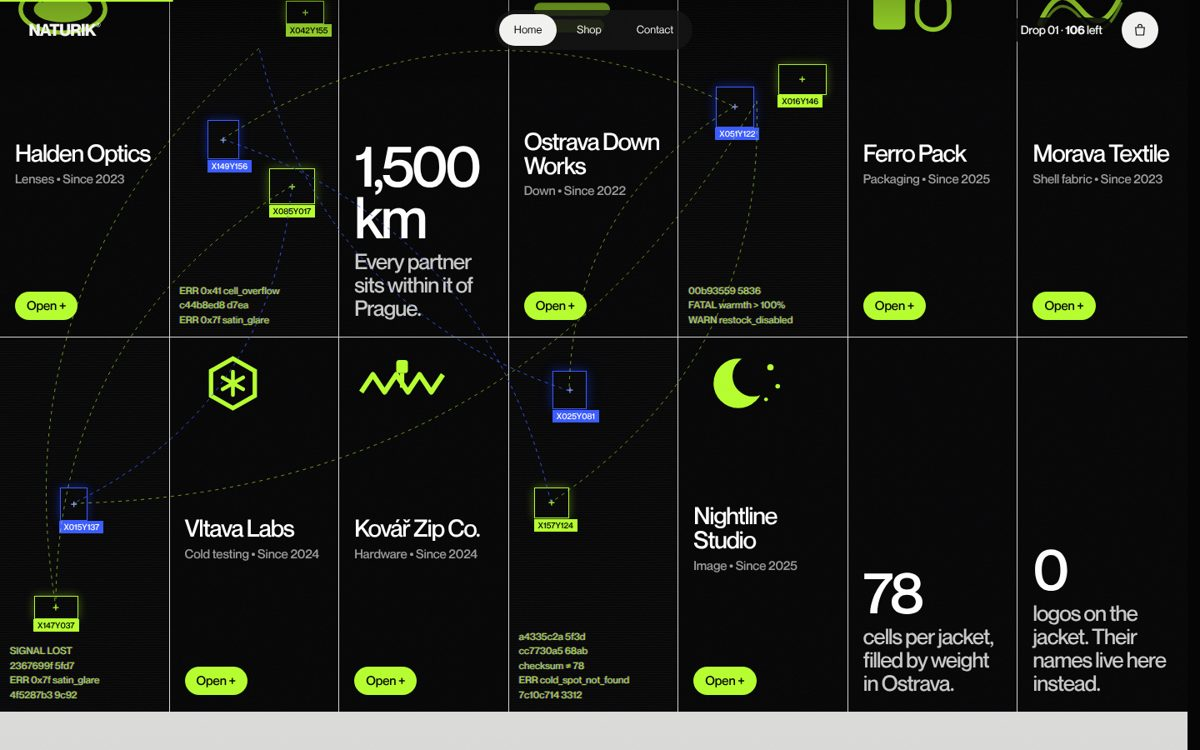
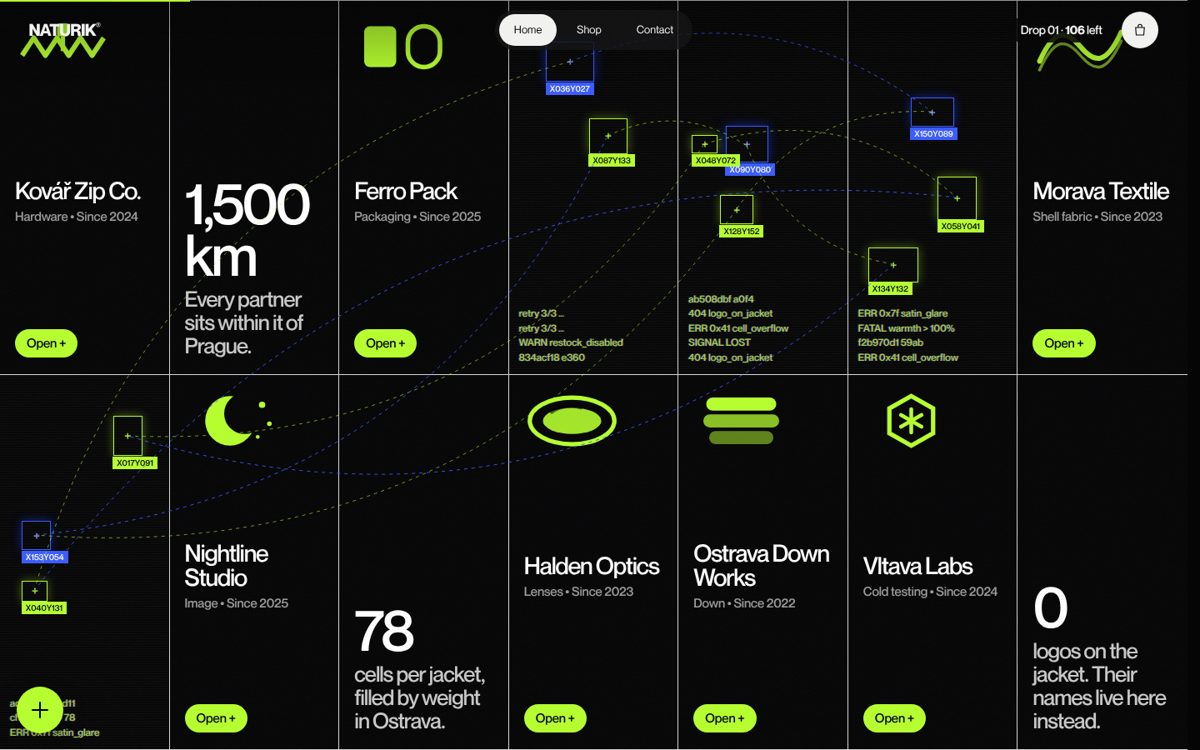
README: new screenshots for partners intro, live count, first-visit popup and social menu
Claude-Session: https://claude.ai/code/session_01Tmbk2dd4R9AbAKMPzQgXd1

diff --git a/README.md b/README.md
@@ -16,7 +16,8 @@ Built as a fast, animated single-page experience with a full (simulated) shop an
 | **Pages** | Home, Shop (with product detail), Contact — switched without reloads |
 | **Shop** | Filters, sorting, 2/3-column view, product gallery, size finder, waitlist for sold-out sizes |
 | **Cart & checkout** | Slide-in bag, discount codes, 4-step checkout with card validation (demo only, no payments) |
-| **Motion** | Scroll-driven photo stage, pinned zoom section, page transitions, counters, glitch / tracker effects |
+| **Motion** | Scroll-driven photo stage, zoom-in sections, page transitions with a tracker/terminal overlay, counters, glitch effects |
+| **Extras** | First-visit 10% popup with newsletter sign-up, live "people looking now" line, floating social button |
 | **3D** | A green blob and three small glossy objects, rendered with three.js only when on screen |
 | **SEO** | Meta + Open Graph, JSON-LD (Product, ItemList, FAQ, Organization), sitemap, robots, 404 |
 
@@ -24,11 +25,16 @@ Built as a fast, animated single-page experience with a full (simulated) shop an
 
 | | |
 |---|---|
-| ![Warmth](docs/screens/02-warmth.jpg) **Portable summer** — the photo card travels with the story, specs count up as they scroll in. | ![Partners](docs/screens/03-partners.jpg) **Partners** — a 7×2 grid that slides shut over "Our partners"; tracker cells glitch and stay connected. |
-| ![Live count](docs/screens/04-live-count.jpg) **Live count** — stock per size, pick a size and add straight to the bag. | ![Signal](docs/screens/05-signal.jpg) **Signal** — flashing phrases, each one a link to a part of the site. |
+| ![Warmth](docs/screens/02-warmth.jpg) **Portable summer** — the photo card travels with the story, specs count up as they scroll in. | ![Our partners](docs/screens/03b-our-partners.jpg) **Our partners** — the section zooms in to fill the screen before the grid closes. |
+| ![Partners](docs/screens/03-partners.jpg) **Partners grid** — 7×2, one partner per column, info cards and connected tracker cells. Open a partner for details. | ![Live count](docs/screens/04-live-count.jpg) **Live count** — who's looking right now, stock per size, add straight to the bag. |
+| ![Signal](docs/screens/05-signal.jpg) **Signal** — flashing phrases, each one a link to a part of the site. | ![Promo](docs/screens/15-promo.jpg) **First visit** — leave an email, get the 10% code instantly. |
 | ![Who we are](docs/screens/06-who-we-are.jpg) **Who we are** — a soft 3D blob that swells on hover. | ![Closer](docs/screens/07-closer.jpg) **Closer** — pinned zoom into six details, with a green crosshair and a clickable index. |
 | ![Who it's for](docs/screens/08-who-its-for.jpg) **Who it's for** — one 3D object per type of wearer. | ![Lookbook](docs/screens/09-lookbook.jpg) **Lookbook** — horizontal scroll, mixed frame sizes, drifting light. |
 | ![Drop row](docs/screens/10-drop-row.jpg) **Drop 01 — six pieces** — Obsidian on top, Arctic below, photo swap on hover. | ![Contact](docs/screens/13-contact.jpg) **Contact** — form, studio details, socials. |
+
+## Floating social menu
+
+![Social menu](docs/screens/14-social.jpg)
 
 ## Shop
 
@@ -51,6 +57,7 @@ Built as a fast, animated single-page experience with a full (simulated) shop an
 - Card number **4242 4242 4242 4242**, any future date, any CVC
 - Discount codes **DROP01** (−10 %) and **CELL78** (−7.8 %)
 - Nothing is charged and no order is sent — the bag lives in your browser
+- The "people looking right now" numbers are simulated for the demo
 
 ## Tech
 
